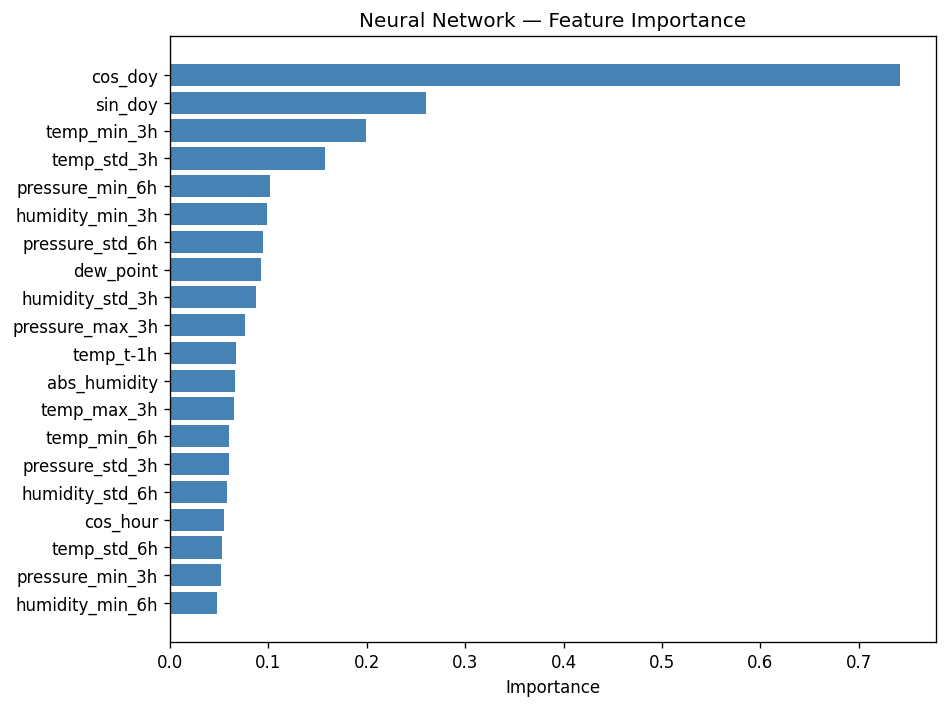
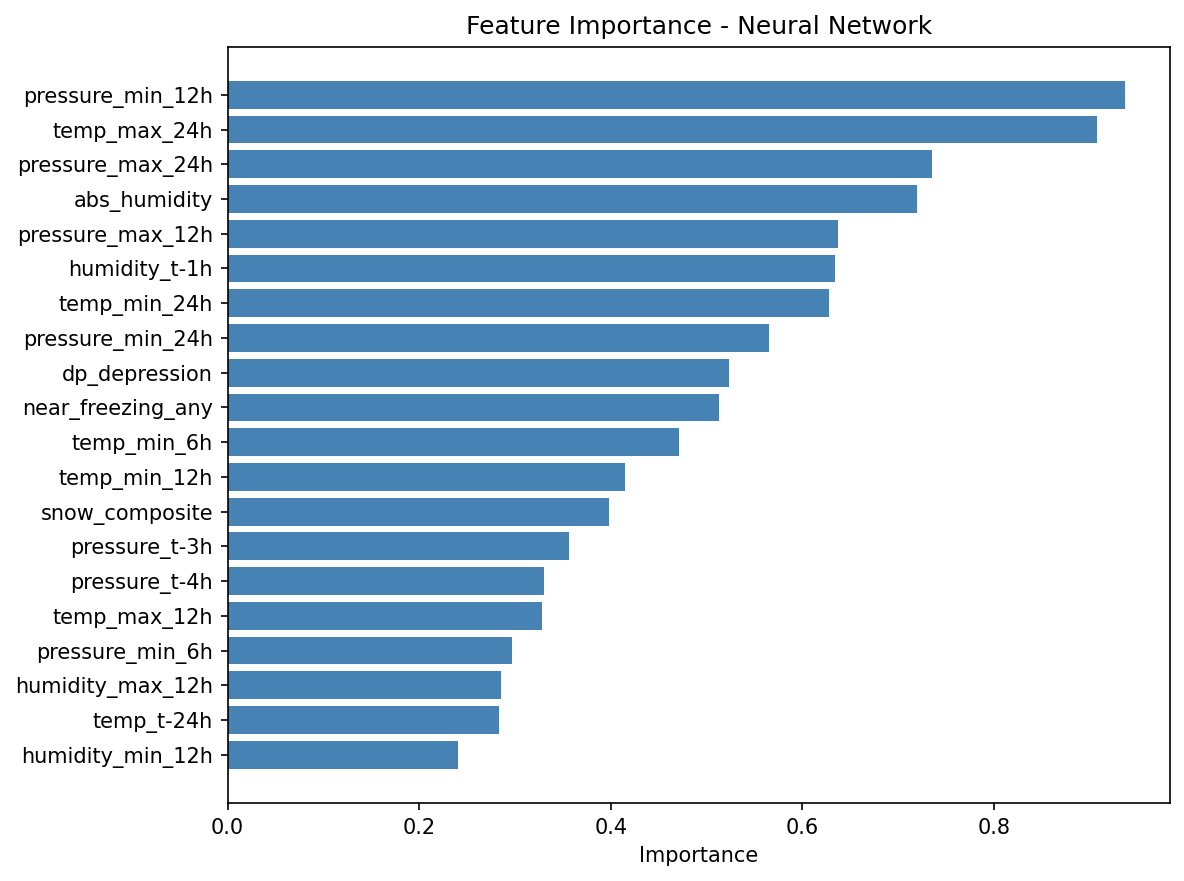
updated report

Changed region(s): [[0.0, 0.0, 1.0, 0.9944]]

diff --git a/prediction/generate_paper.py b/prediction/generate_paper.py
@@ -104,6 +104,31 @@ def ieee_table_caption(doc, title):
     run2 = p.add_run(title)
     set_font(run2, size=8, italic=True)
 
+FIG_NUM = [0]  # mutable counter for IEEE figure numbering
+REPORTS_DIR = os.path.join(os.path.dirname(__file__), "reports")
+
+def ieee_add_figure(doc, image_path, caption, width=Inches(3.2)):
+    """Insert an image with IEEE-style figure caption BELOW."""
+    FIG_NUM[0] += 1
+    if not os.path.exists(image_path):
+        ieee_para(doc, f"[Image not found: {os.path.basename(image_path)}]",
+                  size=8, italic=True, first_indent=False)
+        return
+    p = doc.add_paragraph()
+    p.alignment = WD_ALIGN_PARAGRAPH.CENTER
+    p.paragraph_format.space_before = Pt(6)
+    p.paragraph_format.space_after = Pt(2)
+    run = p.add_run()
+    run.add_picture(image_path, width=width)
+    # Caption below
+    cap = doc.add_paragraph()
+    cap.alignment = WD_ALIGN_PARAGRAPH.CENTER
+    cap.paragraph_format.space_after = Pt(8)
+    r1 = cap.add_run(f"Fig. {FIG_NUM[0]}. ")
+    set_font(r1, size=8, bold=True)
+    r2 = cap.add_run(caption)
+    set_font(r2, size=8)
+
 def shade_cell(cell, hex_color):
     tc = cell._tc
     tcPr = tc.get_or_add_tcPr()
@@ -402,6 +427,9 @@ ieee_para(doc, (
     f"the neural network (class_weight)."
 ))
 
+ieee_add_figure(doc, os.path.join(REPORTS_DIR, "class_distribution.png"),
+                "Class distribution across train, validation, and test splits.")
+
 # ══════════════════════════════════════════════════════════════════════════════
 # III. FEATURE ENGINEERING
 # ══════════════════════════════════════════════════════════════════════════════
@@ -662,28 +690,34 @@ for m in results:
 
 ieee_subsection(doc, "C", "Confusion Matrices")
 ieee_para(doc, (
-    "Tables XI\u2013XIV present the 4\u00d74 confusion matrices (rows = true class, "
-    "columns = predicted class) for each model."
+    "Figs. 2\u20135 present the 4\u00d74 confusion matrices for each model. "
+    "Diagonal elements (correct predictions) are highlighted."
 ))
 
 for m in results:
-    cm = np.array(m["metrics"]["confusion_matrix"])
-    ieee_table_caption(doc, f"Confusion matrix \u2014 {m['name']}.")
-    cm_tbl = doc.add_table(rows=5, cols=5)
-    cm_tbl.style = "Table Grid"
-    # top-left corner blank
-    hdr_cell(cm_tbl.rows[0].cells[0], "True \\ Pred")
-    for ci, cname in enumerate(CLASS_NAMES):
-        hdr_cell(cm_tbl.rows[0].cells[ci+1], cname)
-    for ri, cname in enumerate(CLASS_NAMES):
-        row = cm_tbl.rows[ri+1]
-        tbl_cell(row.cells[0], cname, bold=True)
-        shade_cell(row.cells[0], "E8E8E8")
-        for ci, val in enumerate(cm[ri]):
-            is_diag = (ri == ci)
-            tbl_cell(row.cells[ci+1], str(val), bold=is_diag)
-            if is_diag and val > 0:
-                shade_cell(row.cells[ci+1], "D5F5E3")
+    safe = m["name"].lower().replace(" ", "_")
+    ieee_add_figure(doc, os.path.join(REPORTS_DIR, f"cm_{safe}.png"),
+                    f"Confusion matrix \u2014 {m['name']}.")
+
+ieee_subsection(doc, "D", "ROC Curves")
+ieee_para(doc, (
+    "Fig. 6 shows the macro-averaged one-vs-rest ROC curves for all four models. "
+    "XGBoost achieves the highest ROC-AUC (0.827), followed closely by the neural "
+    "network (0.826) and random forest (0.819)."
+))
+ieee_add_figure(doc, os.path.join(REPORTS_DIR, "roc_curves.png"),
+                "ROC curves (macro one-vs-rest) for all four models.")
+
+ieee_subsection(doc, "E", "Feature Importance")
+ieee_para(doc, (
+    "Figs. 7\u201310 show the top-20 features by importance for each model. "
+    "Pressure tendency and rolling pressure statistics consistently rank highest, "
+    "confirming barometric pressure change as the primary predictive signal."
+))
+for m in results:
+    safe = m["name"].lower().replace(" ", "_")
+    ieee_add_figure(doc, os.path.join(REPORTS_DIR, f"fi_{safe}.png"),
+                    f"Top-20 feature importance \u2014 {m['name']}.")
 
 # ══════════════════════════════════════════════════════════════════════════════
 # VI. ANALYSIS AND DISCUSSION

diff --git a/prediction/evaluation/plots.py b/prediction/evaluation/plots.py
@@ -22,7 +22,7 @@ def confusion_matrix_fig(cm: np.ndarray, title: str = "") -> plt.Figure:
 def roc_fig(y_true: np.ndarray, models_proba: dict) -> plt.Figure:
     y_bin = label_binarize(y_true, classes=list(range(N_CLASSES)))
     fig, ax = plt.subplots(figsize=(7, 6))
-    colors = ["steelblue", "darkorange", "green"]
+    colors = ["steelblue", "darkorange", "green", "crimson"]
     for (name, proba), color in zip(models_proba.items(), colors):
         # Pad proba to N_CLASSES columns if model was trained on fewer classes
         if proba.shape[1] < N_CLASSES:

diff --git a/README.md b/README.md
@@ -32,7 +32,7 @@ The pipeline trains offline in Python, evaluates all models on identical test da
 ## Features
 
 - **4-Class Weather Classification** — Sunny ☀ / Cloudy ☁ / Rainy 🌧 / Snowy ❄ (Stormy WMO codes merged into Rainy)
-- **24-Hour Forecast Horizon** — Predicts future conditions from the last 24 hours of sensor readings
+- **6-Hour Forecast Horizon** — Predicts conditions 6 hours ahead from the last 24 hours of sensor readings
 - **4 Model Comparison** — Logistic Regression, Random Forest, XGBoost, and Neural Network trained and evaluated side-by-side
 - **128-Feature Engineering Pipeline** — Shared feature extraction across all models (raw lags, pressure tendencies, dew point, rolling statistics, cyclical time encoding, and discriminative weather features)
 - **Edge Deployment Ready** — Generates C headers, C inference code (via m2cgen), and TFLite models for microcontroller deployment
@@ -62,7 +62,7 @@ The pipeline trains offline in Python, evaluates all models on identical test da
 │  ┌──────────┬──────────────┬──────────┬──────────┬───────────────┐  │
 │  │ Raw Lags │  Pressure &  │ Derived  │ Rolling  │Discriminative │  │
 │  │   (72)   │  Temp Rates  │  (4)     │ Stats(36)│  Features(8)  │  │
-│  │          │     (6)      │          │          │               │  │
+│  │          │    (4+2)     │          │          │               │  │
 │  └──────────┴──────────────┴──────────┴──────────┴───────────────┘  │
 │                  + Cyclical Time Encoding (4)                       │
 └────────────────────────────┬────────────────────────────────────────┘
@@ -79,7 +79,7 @@ The pipeline trains offline in Python, evaluates all models on identical test da
 │         │               │              │               │           │
 │         ▼               ▼              ▼               ▼           │
 │     lr_coeff.h      rf_model.c    xgb_model.pkl   model.tflite    │
-│      (2.8 KB)       (via m2cgen)   (5,051 KB)      (11 KB)       │
+│      (~6 KB)       (via m2cgen)   (~22 MB)        (~91 KB)        │
 └─────────────────────────────────────────────────────────────────────┘
                              │
                              ▼
@@ -161,10 +161,11 @@ All models share an identical 128-feature extraction pipeline defined in `featur
 | Group | Description | Count |
 |-------|-------------|-------|
 | Raw Lags | Temperature, Humidity, Pressure × 24 timesteps | 72 |
-| Pressure Tendency | ΔPressure at 1h, 3h, 6h, 24h intervals | 4 |
-| Temperature Rate | ΔTemp at 1h and 6h intervals | 2 |
+| Pressure Tendency | ΔPressure at 1h, 12h, 24h intervals | 3 |
+| Pressure Acceleration | ΔP_12h − ΔP_24h | 1 |
+| Temperature Rate | ΔTemp at 1h and 12h intervals | 2 |
 | Dew Point & Abs. Humidity | Magnus formula derived values | 2 |
-| Rolling Statistics | mean, std, min, max × 3h, 6h & 24h × 3 signals | 36 |
+| Rolling Statistics | mean, std, min, max × 6h, 12h & 24h × 3 signals | 36 |
 | Cyclical Time | sin/cos of hour-of-day + day-of-year | 4 |
 | Discriminative Features | Freeze flags, dew-point depression, pressure trend sign, snow/rain composites | 8 |
 | **Total** | | **128** |
@@ -172,6 +173,7 @@ All models share an identical 128-feature extraction pipeline defined in `featur
 **Key design choices:**
 - **Cyclical encoding** (sin/cos) ensures 23:00 and 00:00 are treated as adjacent, not distant
 - **Pressure tendency & acceleration** are the most predictive features for short-horizon forecasting
+- Rolling statistics use **6 h, 12 h, and 24 h** windows to capture multi-scale atmospheric trends
 - **StandardScaler** is fit only on training data — parameters exported as C arrays for edge inference
 
 ---
@@ -194,16 +196,19 @@ All models share an identical 128-feature extraction pipeline defined in `featur
 
 ### 3. XGBoost Classifier
 
-- Gradient-boosted trees with sample weighting
-- Deployment: serialized model file
-- Inference: **~15 µs** on ESP32-S3
+- 600 estimators, max depth 8, learning rate 0.03
+- Histogram-based tree method with L1/L2 regularisation
+- Balanced class weights applied via sample_weight
+- Deployment: serialized model file (~22 MB)
+- Inference: **~40 µs** on ESP32-S3
 
 ### 4. Neural Network (TFLite)
 
 - Architecture: `Input(128) → Dense(256, ReLU) → BatchNorm → Dropout(0.3) → Dense(128, ReLU) → BatchNorm → Dropout(0.25) → Dense(64, ReLU) → Dropout(0.2) → Dense(32, ReLU) → Dense(4, Softmax)`
-- Early stopping on validation loss (patience=10)
+- Early stopping on validation accuracy (patience=15), batch size 512, max 200 epochs
+- Balanced class weights passed to fit()
 - INT8 post-training quantization using 1000 stratified-random calibration samples
-- Deployment: `.tflite` → `model_data.h` (C byte array) — runs via TFLite Micro
+- Deployment: `.tflite` → `model_data.h` (C byte array, ~91 KB) — runs via TFLite Micro
 - Inference: **~86 µs** on ESP32-S3
 
 ---
@@ -278,7 +283,7 @@ All models evaluated on the same chronologically-held-out test set:
 | **XGBoost** | **58.2%** | **0.541** | 21,964 KB | ~40 µs |
 | Neural Network | 57.2% | 0.500 | 91 KB | ~86 µs |
 
-> **Note:** Models are trained on multi-station global data with 4 weather classes. SMOTE oversampling is applied selectively to minority classes only (Snowy). The primary accuracy ceiling (~58–60%) is driven by the inherent ambiguity between Sunny and Cloudy conditions using only Temperature, Humidity, and Pressure signals.
+> **Note:** Models are trained on multi-station global data with 4 weather classes. SMOTE oversampling is applied to all minority classes (capped at 20% of majority class count). Balanced class weights are additionally applied to XGBoost and the Neural Network. The primary accuracy ceiling (~58–60%) is driven by the inherent ambiguity between Sunny and Cloudy conditions using only Temperature, Humidity, and Pressure signals.
 
 ### Per-Class F1 Scores
 
@@ -345,7 +350,7 @@ BME688 Sensor Reading
         │
         ▼
 ┌───────────────────┐
-│ Collect 6 hourly  │
+│ Collect 24 hourly │
 │ readings (ring     │
 │ buffer on ESP32)   │
 └────────┬──────────┘
@@ -368,7 +373,8 @@ BME688 Sensor Reading
          ▼
 ┌───────────────────┐
 │ Run inference     │    Sunny / Cloudy / Rainy / Snowy
-│ (LR / RF / NN)   │──────────────────────────────────────────►
+│ (LR / RF / XGB /  │──────────────────────────────────────────►
+│  NN)              │
 └───────────────────┘
 ```
 
@@ -465,7 +471,7 @@ prediction/
 
 3. **Feature Engineering** — A 24-hour sliding window produces 128 features per sample: raw sensor lags, pressure tendencies, derived meteorological quantities, rolling statistics, cyclical time encoding, and 8 discriminative weather features (freeze flags, dew-point depression, snow/rain composites).
 
-4. **SMOTE Balancing** — Synthetic Minority Over-sampling Technique selectively upsamples minority classes (Snowy) in the training set only.
+4. **SMOTE Balancing** — Synthetic Minority Over-sampling Technique upsamples all minority classes (capped at 20% of majority count, max 5× expansion) in the training set only. Balanced class weights are additionally applied to XGBoost and the Neural Network.
 
 5. **Model Training** — Four models train sequentially on the balanced dataset: Logistic Regression → Random Forest → XGBoost → Neural Network.
 
